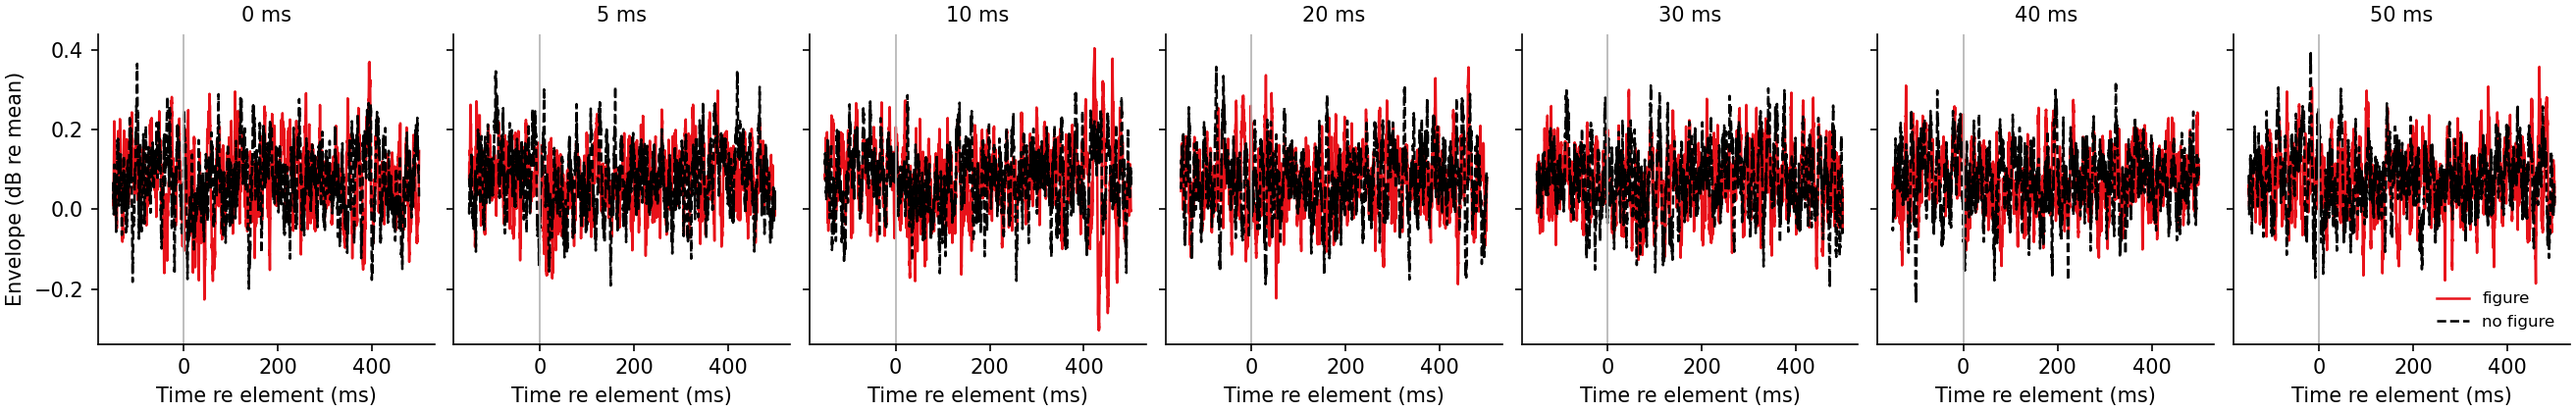
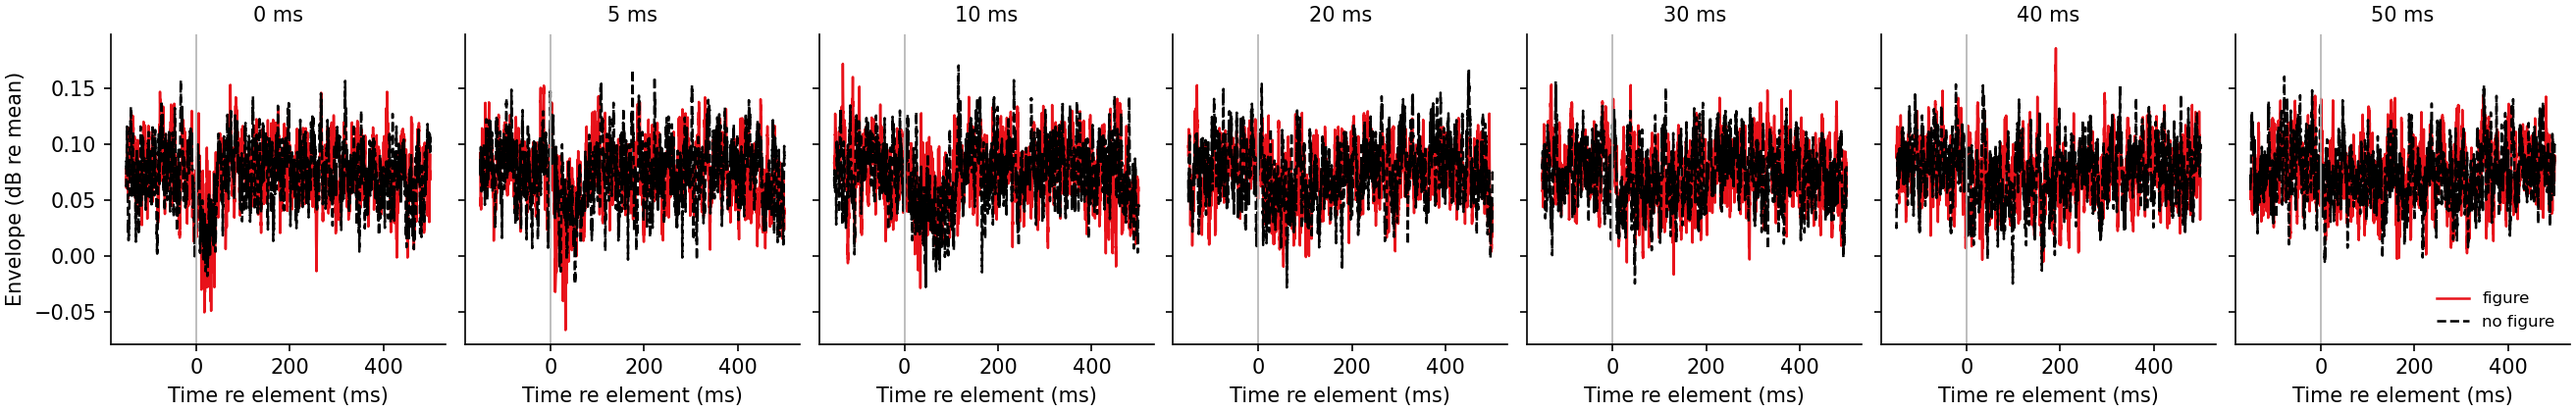
audios/sfg_task: flat channel levels, so nothing beeps
A listener reported a salient beep at a high frequency and another in the
middle.  It was the equal-loudness weighting, and the measurements say the
weighting should not have been there at all.

ISO 226 corrects for the threshold of hearing.  Nothing in this stimulus is
near threshold: the masking the cloud throws at each frequency sits 30 to
45 dB above the absolute threshold everywhere in the pool, so masking and
not audibility limits every channel.  Modelled against threshold and cloud
masking together, audibility spreads 6.0 dB across the pool flat and 6.9 dB
weighted.  The correction was buying nothing.

What it cost: 12.6 dB of weighting range, and because the pool covers
exactly the two rising arms of the curve, its two loudest bands sat on the
two pool edges, which are also the places with least masking on one side.
On rendered stimuli, long-term power varied 12.4 dB across channels and the
top of the pool stood 2.4 dB above its own 3-ERB neighbourhood.  And the
seven tones of one element came out a median 5.9 dB and up to 12.6 dB apart,
when the premise of the experiment is that they are seven equally audible
tones binding by common onset.

Flat now.  Long-term power varies 1.4 dB across the pool, worst prominence
1.0 dB and at the bottom edge rather than the top, the tones of an element
are identical in level, and the element gain falls out at exactly 1.  Energy
below 400 Hz drops from 28% to 13% and the levelling gain from 8.9 to
[…]

diff --git a/audios/sfg_task/config.py b/audios/sfg_task/config.py
@@ -54,7 +54,19 @@ class Design:
     # --- where the figure sits ----------------------------------------
     fig_span_st: float = 30.0    # frequency extent of the figure
     fig_edge_st: float = 8.0     # kept this far clear of both pool edges
-    phon: float = 60.0           # ISO 226 weighting, so no region dominates
+
+    # ISO 226 corrects for the threshold of hearing, and nothing here is
+    # anywhere near threshold: measured, the masking the cloud throws at
+    # every frequency in this pool sits 30 to 45 dB above the threshold, so
+    # masking and not audibility is what limits every channel.  The
+    # correction therefore buys no evenness at all -- audibility spreads
+    # 6.0 dB across the pool without it and 6.9 dB with it -- while costing
+    # 12.6 dB of level range, putting the two loudest bands at the two pool
+    # edges where least masks them (which is what a listener hears as a
+    # beep), and leaving the seven tones of an element up to 12.6 dB apart
+    # when they are meant to bind into one thing.  Flat, as in Teki 2013.
+    equal_loudness: bool = False
+    phon: float = 60.0           # only when equal_loudness is on
 
     # --- one interval -------------------------------------------------
     # Long, because the figure has to be found by accumulating evidence over
@@ -211,7 +223,9 @@ class Design:
             f"{', '.join(f'{s:g}' for s in self.steps_ms)} ms  x "
             f"{self.n_per_step} trials = {self.n_trials} trials",
             f"  pool      {n_ch} channels, {self.f_lo:.0f}-{self.f_hi:.0f} Hz, "
-            f"{self.grid_st:g} st grid, {self.phon:g} phon weighting",
+            f"{self.grid_st:g} st grid, "
+            + (f"{self.phon:g} phon weighted" if self.equal_loudness
+               else "flat level"),
             f"  cloud     {self.bg_sounding} tones sounding, "
             f"{bg:.0f} onsets/s, {bg / n_ch:.2f}/s per channel",
             f"  figure    {self.coherence} tones over {self.fig_span_st:g} st, "

diff --git a/audios/sfg_task/stimulus.py b/audios/sfg_task/stimulus.py
@@ -29,7 +29,7 @@ def make_pool(d: Design) -> dict:
     span = 12 * np.log2(d.f_hi / d.f_lo)
     st = np.arange(0.0, span + 1e-9, d.grid_st)
     f = d.f_lo * 2.0 ** (st / 12.0)
-    amp = weights(f, d.phon)
+    amp = weights(f, d.phon) if d.equal_loudness else np.ones_like(f)
     e = erb_number(f)
     near = np.abs(e[:, None] - e[None, :]) < d.min_sep_erb
     np.fill_diagonal(near, False)

diff --git a/audios/sfg_task/README.md b/audios/sfg_task/README.md
@@ -16,18 +16,36 @@ thing?
 ## The stimulus
 
 A cloud of 50 ms tones with 10 ms raised-cosine ramps, drawn from 117 channels spanning
-250 to 7246 Hz on a 1/24 octave grid, weighted to equal loudness at 60 phon
-(ISO 226:2003). Exactly eight tones sound at every instant, by a start pattern that puts
-`bg_sounding` starts in every tone length. That works for any count, not only for
-multiples of it.
+250 to 7246 Hz on a 1/24 octave grid, all at the same level. Exactly eight tones sound
+at every instant, by a start pattern that puts `bg_sounding` starts in every tone
+length. That works for any count, not only for multiples of it.
 
 No two tones ever sound at once inside one critical band. A 1/24 octave pool puts four
 to eight channels inside every ERB, and without this rule two thirds of the tones
-acquire a beating partner. At the bottom of the pool, where the channels are 5 Hz apart
-and the equal-loudness curve adds 11 dB, that is a 5 Hz throb, and it is what a listener
-hears as a repeated beep rather than as a cloud. Teki's pool starts at 179 Hz, but Teki
-does not weight for equal loudness; with the weighting, that octave takes over the
-stimulus, so the pool starts at 250 Hz here.
+acquire a beating partner, which at the bottom of the pool is a 5 Hz throb. A listener
+hears that as a repeated beep rather than as a cloud.
+
+### Why the levels are flat and not equal-loudness weighted
+
+ISO 226 corrects for the threshold of hearing, and nothing in this stimulus is anywhere
+near threshold. Measured, the masking the cloud throws at each frequency sits 30 to
+45 dB above the absolute threshold at every point in the pool, so masking and not
+audibility is what limits every channel. The correction therefore buys no evenness:
+modelled against threshold and cloud masking together, audibility spreads 6.0 dB across
+the pool flat and 6.9 dB weighted.
+
+What it cost was substantial. At 60 phon the weighting spans 12.6 dB, and because the
+pool covers exactly the two rising arms of the curve, its two loudest bands land on the
+two pool edges, which are also the places with least masking on one side. Measured on
+rendered stimuli, long-term power varied 12.4 dB across channels and the top of the pool
+stood 2.4 dB above its own 3-ERB neighbourhood. That is audible as a beep. Worse, the
+seven tones of one figure element came out a median 5.9 dB and up to 12.6 dB apart, when
+the whole premise is that they are seven equally audible tones that bind by common
+onset.
+
+Flat, as in Teki 2013: long-term power now varies 1.4 dB across channels, the worst
+prominence is 1.0 dB, and the tones of an element are identical in level. The residual
+1.0 dB sits at the bottom edge of the pool, which has nothing below it to mask it.
 
 Onsets fall on a 5 ms grid. A finer grid costs nothing, since the cloud starts
 `bg_sounding / tone_ms` tones a second whatever the grid is, so the grid is set by the
@@ -85,6 +103,8 @@ these. Construction arguments are not evidence.
 | tones sounding | identical range at every step |
 | long-term level | RMS-normalised, 0.000 dB apart |
 | long-term spectrum | within 0.4 dB in any third-octave band |
+| channel balance | long-term power varies 1.4 dB across the pool; no channel stands more than 1.0 dB above its own 3-ERB neighbourhood |
+| within an element | the seven tones are identical in level, so none of them carries the figure on its own |
 | element loudness pulse | element-locked power against the window before it: -0.06 to -0.02 dB at every step, the same in both |
 | element loudness cue | present minus absent, against the same measure split within one condition. The difference (0.10 to 0.13 dB) sits below the noise floor of the measurement (0.14 to 0.17 dB) |
 | element power | equalised per draw, against the power the background actually realised. CV 0.0000 in both |
